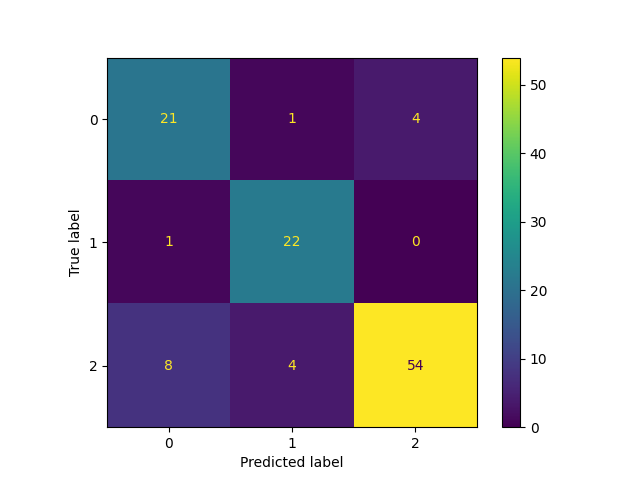
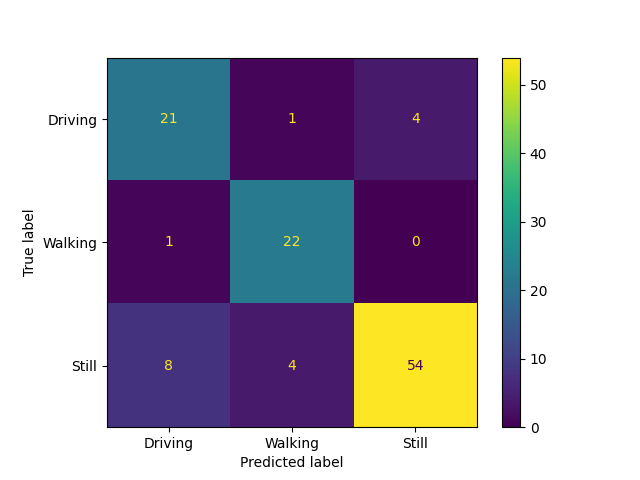
update cf matrix Sensor Data

diff --git a/AI/RFSensorData.py b/AI/RFSensorData.py
@@ -44,7 +44,7 @@ print('Accuracy :', metrics.accuracy_score(y_test, y_pred))
 print('Precision:', metrics.confusion_matrix(y_test, y_pred))
 print(metrics.classification_report(y_test, y_pred))
 cf = metrics.confusion_matrix(y_test, y_pred,labels=rf.classes_)
-disp = ConfusionMatrixDisplay(confusion_matrix = cf,display_labels=rf.classes_)
+disp = ConfusionMatrixDisplay(confusion_matrix = cf,display_labels=['Driving','Walking','Still'])
 disp.plot()
 plt.show()
 
@@ -54,7 +54,7 @@ print('Accuracy:', metrics.accuracy_score(y_testR, y_predR))
 print('Precision:', metrics.confusion_matrix(y_testR, y_predR))
 print(metrics.classification_report(y_testR, y_predR))
 cf = metrics.confusion_matrix(y_testR, y_predR,labels=rf.classes_)
-disp = ConfusionMatrixDisplay(confusion_matrix = cf,display_labels=rf.classes_)
+disp = ConfusionMatrixDisplay(confusion_matrix = cf,display_labels=['Driving','Walking','Still'])
 disp.plot()
 plt.show()
 
